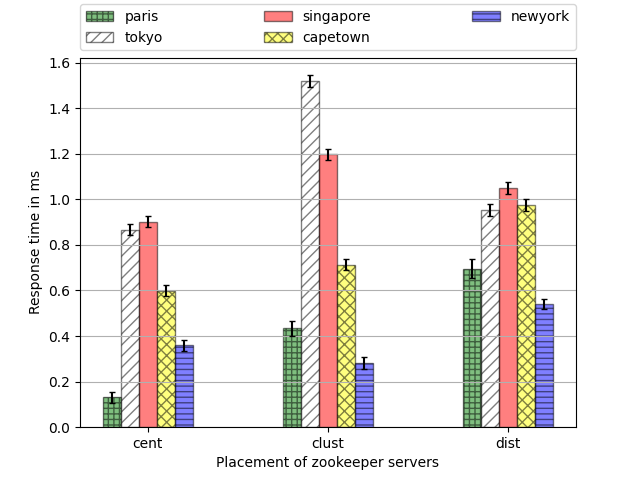
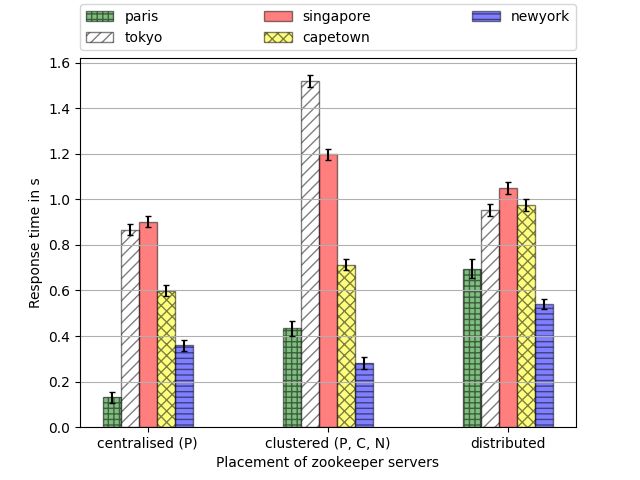
edits

diff --git a/report_generation/reports.py b/report_generation/reports.py
@@ -4,15 +4,30 @@ operations = ['[INSERT', '[UPDATE', '[DELETE', '[READ']
 replicas = ['paris', 'tokyo', 'singapore', 'capetown', 'newyork']
 
 # configurations
-applications = ['auction1', 'auction2', 'auction3']
-workloads = ['workloadax', 'workloaday', 'workloadaz', 'workloadbx',
-             'workloadby', 'workloadbz', 'workloadcx', 'workloadcy', 'workloadcz']
-granularities = {'auction1': range(
-    1, 3), 'auction2': range(1, 4), 'auction3': range(1, 9)}
-modes = {'auction1': {1: range(1, 10), 2: range(1, 4)},
-         'auction2': {1: range(1, 28), 2: range(1, 10), 3: range(1, 4)},
-         'auction3': {1: range(1, 82), 2: range(1, 55), 3: range(1, 28), 4: range(1, 19),
-                      5: range(1, 28), 6: range(1, 19), 7: range(1, 25), 8: range(1, 17)}}
+# applications = ['auction1', 'auction2', 'auction3','sample']
+# workloads = ['workloadax', 'workloaday', 'workloadaz', 'workloadbx',
+#              'workloadby', 'workloadbz', 'workloadcx', 'workloadcy', 
+#              'workloadcz', 'workloaddx', 'workloaddy', 'workloaddz']
+# granularities = {'auction1': range(
+#     1, 3), 'auction2': range(1, 4), 'auction3': range(1, 9),
+#     'sample': range(1, 5)}
+# modes = {'auction1': {1: range(1, 10), 2: range(1, 4)},
+#          'auction2': {1: range(1, 28), 2: range(1, 10), 3: range(1, 4)},
+#          'auction3': {1: range(1, 82), 2: range(1, 55), 3: range(1, 28), 4: range(1, 19),
+#                       5: range(1, 28), 6: range(1, 19), 7: range(1, 25), 8: range(1, 17)}
+#          'sample': {1: range(1, 28), 2: range(1, 10), 3: range(1, 10), 4: range(1, 4)}}
+# placements = ['cent', 'clust', 'dist']
+
+# applications = ['sample1']
+# workloads = ['workloadax']
+# granularities = {'sample1': range(1, 2)}
+# modes = {'sample1': {1: range(1, 2)}}
+# placements = ['cent']#, 'clust', 'dist']
+
+applications = ['sample']
+workloads = ['workloadbx', 'workloadby', 'workloadbz']
+granularities = {'sample': range(4, 5)}
+modes = {'sample': {1: range(1, 28), 2: range(1, 10), 3: range(1, 10), 4: range(1, 5)}}
 placements = ['cent', 'clust', 'dist']
 
 # applications = ['sample']
@@ -34,40 +49,44 @@ def get_latencies(app, workload, gran, mode, placement):
     print(app, workload, gran, mode, placement)
     result = []
     error = []
-    number_of_ops = 0
-    exec_time = 0
     lock_config = str(gran)+'-'+str(mode)+'-'+placement
-    failures = []
-    for replica in replicas:
-        number_of_ops_rep = 0
-        exec_time_rep = 0
-        file_name = os.path.join(folder, 'wlogs', app,
-                                 workload, lock_config, replica+'.txt')
-        with open(file_name) as f:
-            for line in f.readlines():
-                # print(line)
-                if line.startswith(tuple(operations)):
-                    parts = [x.strip() for x in line.split(',')]
-                    if 'FAILED' in parts[0] and parts[1] == 'Operations':
-                        failures += [replica + ': ' + line.strip()]
-                    elif parts[1] == 'Operations':
-                        ops = int(parts[2])
-                        number_of_ops_rep += ops
-                        # print('operations', line)
-                    elif 'FAILED' not in parts[0] and parts[1] == 'AverageLatency(us)':
-                        if parts[2] != 'NaN':
-                            exec_time_rep += ops * float(parts[2])
-                        else:
+    for run in range(1, 6):
+        number_of_ops = 0
+        exec_time = 0
+        failures = []
+        for replica in replicas:
+            number_of_ops_rep = 0
+            exec_time_rep = 0
+            # file_name = os.path.join(folder, 'wlogs', app,
+                                    # workload, lock_config, str(run), replica+'.txt')
+            file_name = os.path.join(folder, str(run), 'wlogs', app,
+                                    workload, lock_config, replica+'.txt')
+            with open(file_name) as f:
+                for line in f.readlines():
+                    # print(line)
+                    if line.startswith(tuple(operations)):
+                        parts = [x.strip() for x in line.split(',')]
+                        if 'FAILED' in parts[0] and parts[1] == 'Total Operations':
                             failures += [replica + ': ' + line.strip()]
-        number_of_ops += number_of_ops_rep
-        exec_time += exec_time_rep
-    if number_of_ops < 4995: # or failures:
-        error += [workload + ' --- ' + lock_config + ' operations ' +
-                  str(number_of_ops) + '::: ' + ','.join(failures)]
-    else:
-        latency = exec_time / number_of_ops / 1000.0
-        result += ['lock config ' + lock_config + ' --- ' + 'operations ' + str(
-            number_of_ops) + ' --- ' + 'exec time ' + str(exec_time) + ' --- ' + 'average latency(ms) ' + str(latency)]
+                        elif parts[1] == 'Total Operations':
+                            ops = int(parts[2])
+                            number_of_ops_rep += ops
+                            # print('operations', line)
+                        elif 'FAILED' not in parts[0] and parts[1].strip() == 'Average':
+                            if parts[2] != 'NaN':
+                                exec_time_rep += ops * float(parts[2])
+                            else:
+                                failures += [replica + ': ' + line.strip()]
+            number_of_ops += number_of_ops_rep
+            exec_time += exec_time_rep
+        if number_of_ops < 4995: # or failures:
+            error += [workload + ' --- ' + lock_config + ' operations ' +
+                    str(number_of_ops) + '::: ' + ','.join(failures)]
+        else:
+            latency = exec_time / number_of_ops / 1000.0
+            result += ['lock config ' + lock_config + ' --- ' + 'run ' + str(run) + ' operations ' + str(
+                number_of_ops) + ' --- ' + 'exec time ' + str(exec_time / 1000.0) + ' --- ' + 'average latency(ms) ' + str(latency)]
+    result += ['-'*40]
     return result, error
 
 
@@ -96,5 +115,5 @@ def generate_report(folder):
 
 
 folder = os.path.join('/', 'Users', 'snair', 'works',
-                      'dislock-experiments', 'results', 'local')
+                      'dislock-experiments', 'results', 'new', 'small22_1', 'locks')
 generate_report(folder)

diff --git a/zoo-mark.py b/zoo-mark.py
@@ -32,10 +32,10 @@ bar1 = ax.bar(x_pos - width, resp1, width, yerr=resperr1, align='center', alpha=
 bar2 = ax.bar(x_pos, resp2, width, yerr=resperr2, align='center', alpha=0.5, color='red', edgecolor='black', hatch='', capsize=2)
 bar3 = ax.bar(x_pos + width, resp3, width, yerr=resperr3, align='center', alpha=0.5, color='yellow', edgecolor='black', hatch='xxx', capsize=2)
 bar4 = ax.bar(x_pos + 2*width, resp4, width, yerr=resperr4, align='center', alpha=0.5, color='blue', edgecolor='black', hatch='---', capsize=2)
-ax.set_ylabel('Response time in ms')
+ax.set_ylabel('Response time in s')
 ax.set_xticks(x_pos)
 ax.set_xlabel('Placement of zookeeper servers')
-ax.set_xticklabels(['cent', 'clust', 'dist'])
+ax.set_xticklabels(['centralised (P)', 'clustered (P, C, N)', 'distributed'])
 
 ax.legend((bar0[0], bar1[0], bar2[0], bar3[0], bar4[0]), ('paris', 'tokyo', 'singapore', 'capetown', 'newyork'), bbox_to_anchor=(0., 1.02, 1., .5), loc='lower right', borderaxespad=0., mode="expand", ncol=3)
 
